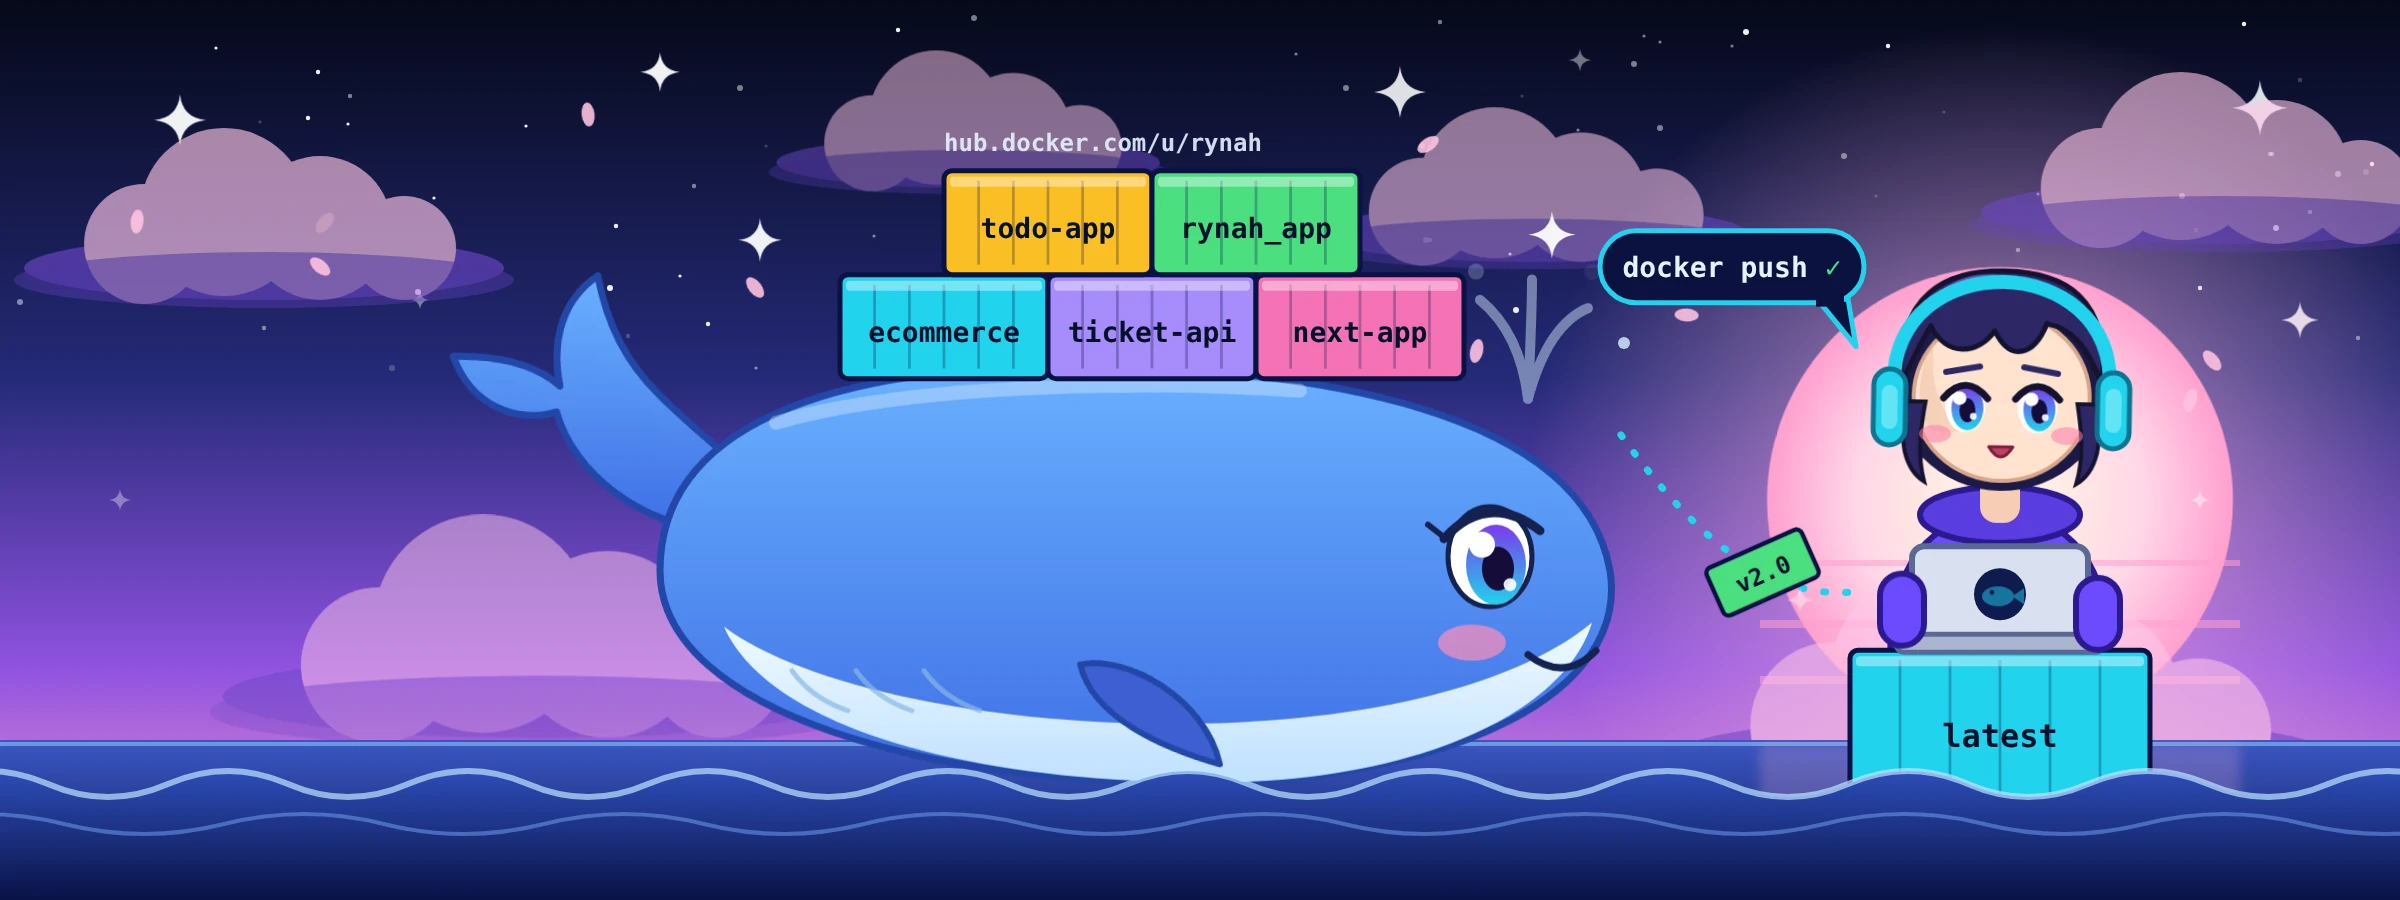
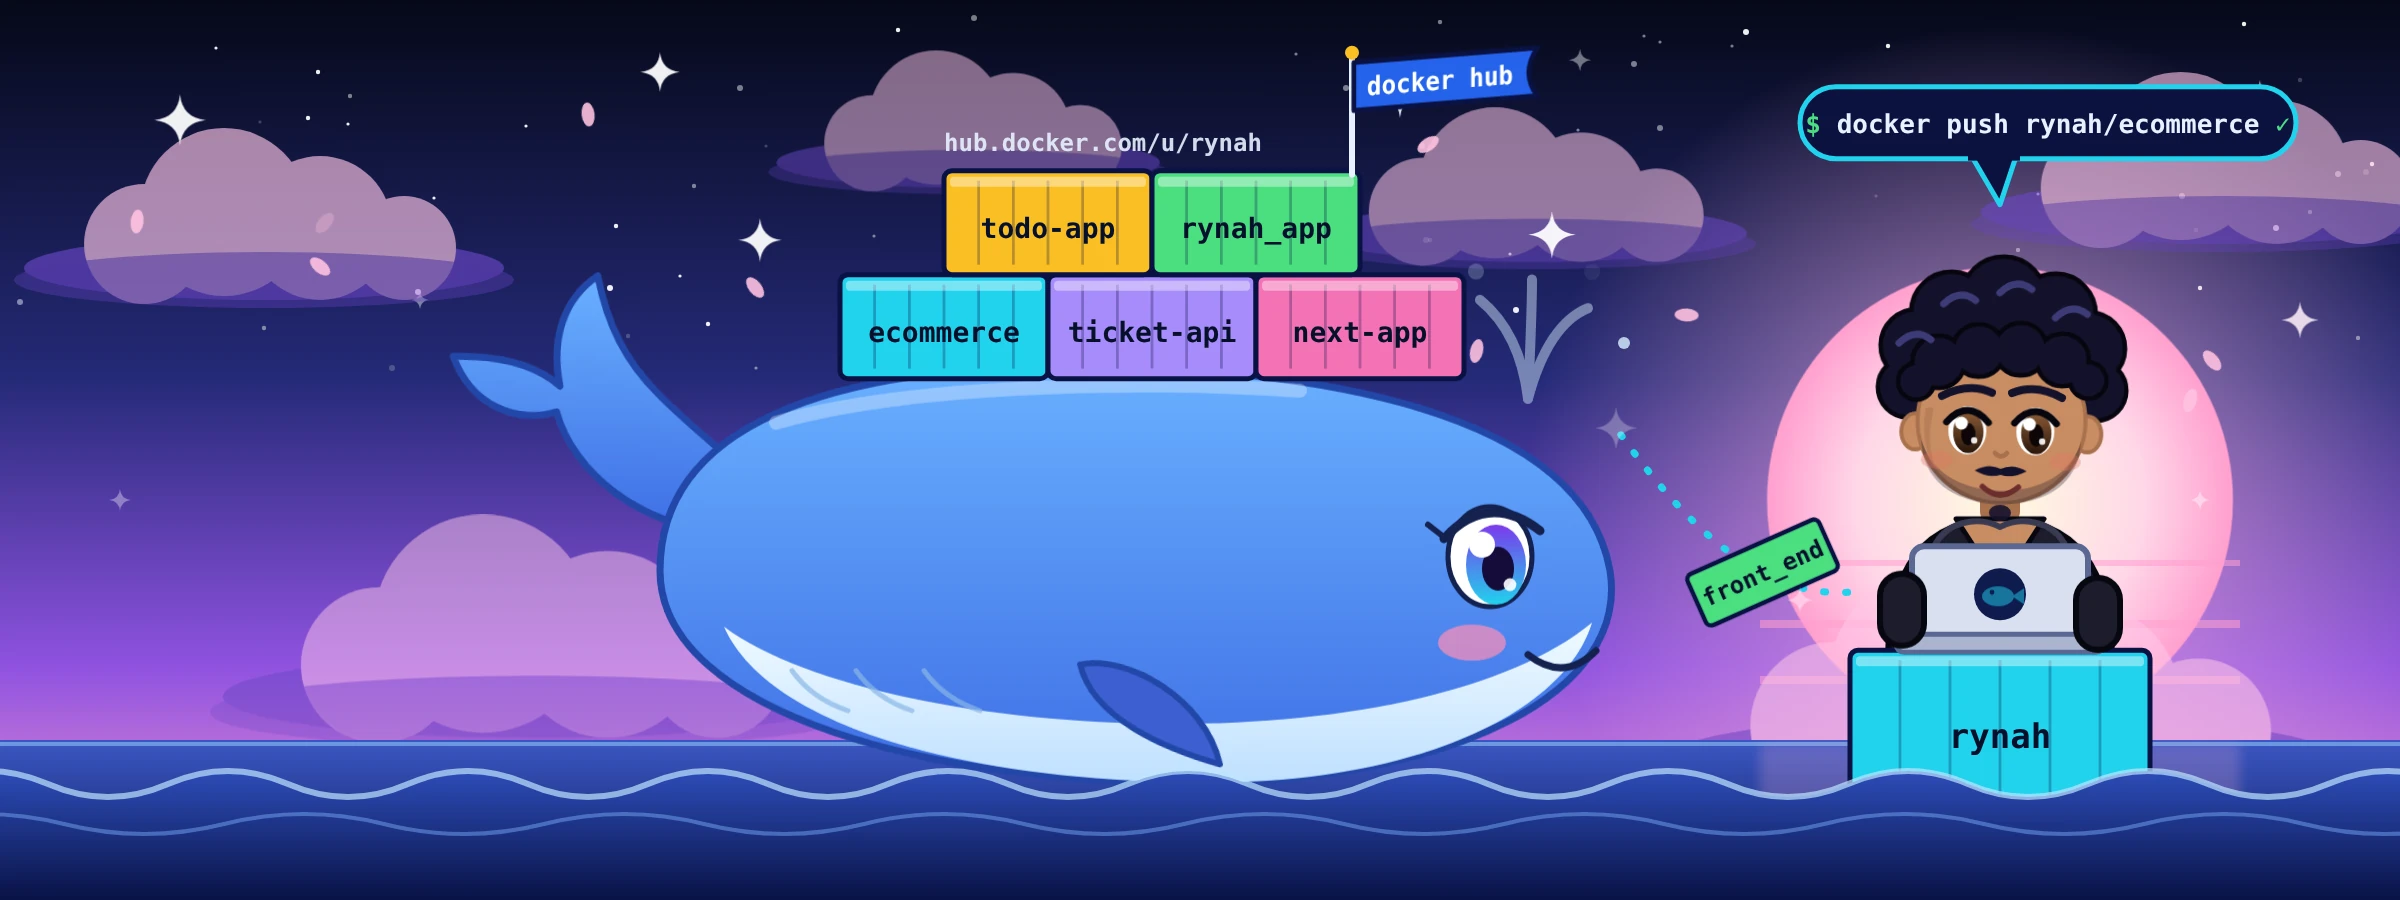
Redraw the illustration as Rynah pushing images to Docker Hub
The character now follows the portrait (curly hair, moustache and goatee,
black V-neck sweater) and types docker push rynah/ecommerce. The whale is
labelled with a docker hub flag, and the front_end and back_end images
fly from the laptop to it in turn.

Claude-Session: https://claude.ai/code/session_015Cm5Fy6Lt5zcH3DsVDubg1

diff --git a/scripts/make-illustration.py b/scripts/make-illustration.py
@@ -90,6 +90,8 @@ CSS = f"""
 @keyframes arrive{{0%,70%{{opacity:0;transform:scale(0)}}73%{{opacity:1;transform:scale(1.5)}}86%{{opacity:0;transform:scale(.4)}}100%{{opacity:0;transform:scale(0)}}}}
 .petal{{transform-box:fill-box;transform-origin:center;animation:petal 4s linear infinite}}
 @keyframes petal{{0%{{transform:translate(0,0) rotate(0);opacity:0}}15%{{opacity:.9}}85%{{opacity:.9}}100%{{transform:translate(-34px,230px) rotate(260deg);opacity:0}}}}
+.flag{{transform-origin:676px 48px;animation:flag 2s ease-in-out infinite}}
+@keyframes flag{{0%,100%{{transform:skewY(0) scaleX(1)}}50%{{transform:skewY(-5deg) scaleX(.93)}}}}
 .shoot{{animation:shoot 4s linear infinite}}
 @keyframes shoot{{0%{{transform:translate(0,0);opacity:0}}3%{{opacity:1}}18%{{transform:translate(-150px,52px);opacity:0}}100%{{transform:translate(-150px,52px);opacity:0}}}}
 """
@@ -103,6 +105,7 @@ add('''<defs>
 <linearGradient id="whale" x1="0" y1="0" x2="0" y2="1"><stop offset="0" stop-color="#69b0ff"/><stop offset="1" stop-color="#3f6fe6"/></linearGradient>
 <linearGradient id="belly" x1="0" y1="0" x2="0" y2="1"><stop offset="0" stop-color="#f0faff"/><stop offset="1" stop-color="#bfe0ff"/></linearGradient>
 <linearGradient id="iris" x1="0" y1="0" x2="0" y2="1"><stop offset="0" stop-color="#7c3aed"/><stop offset="1" stop-color="#22d3ee"/></linearGradient>
+<linearGradient id="iris2" x1="0" y1="0" x2="0" y2="1"><stop offset="0" stop-color="#8a5a34"/><stop offset="1" stop-color="#2a160c"/></linearGradient>
 <linearGradient id="sea" x1="0" y1="0" x2="0" y2="1"><stop offset="0" stop-color="#3b57c4"/><stop offset="1" stop-color="#0b1550"/></linearGradient>
 <linearGradient id="seaFront" x1="0" y1="0" x2="0" y2="1"><stop offset="0" stop-color="#2d4cb8"/><stop offset="1" stop-color="#091245"/></linearGradient>
 <linearGradient id="trail" gradientUnits="userSpaceOnUse" x1="0" y1="0" x2="70" y2="0"><stop offset="0" stop-color="#fff"/><stop offset="1" stop-color="#fff" stop-opacity="0"/></linearGradient>
@@ -193,48 +196,64 @@ def crate(x, y, w, h, color, label, fs=14):
 for (label, color), (x, y) in zip(CRATES, POS):
     crate(x, y, 104, 52, color, label)
 add('<text x="472" y="80" font-size="12" font-weight="700" fill="#e8f1ff" opacity=".9">hub.docker.com/u/rynah</text>')
+add('<line x1="676" y1="92" x2="676" y2="32" stroke="#e8f1ff" stroke-width="3" stroke-linecap="round"/><circle cx="676" cy="31" r="3.5" fill="#fbbf24"/>')
+add('<g class="flag"><path d="M677 36 H775 Q766 48 775 60 H677 Z" fill="#2563eb" stroke="#0a1244" stroke-width="2.5" stroke-linejoin="round"/>')
+add('<text x="723" y="53" text-anchor="middle" font-size="13" font-weight="800" fill="#fff">docker hub</text></g>')
 add('</g>')  # fin .bob baleine
 
-# --- personnage chibi : posé sur un conteneur qui flotte aussi (décalé d'une seconde)
+# --- personnage chibi : Rynah (cheveux bouclés, moustache et bouc, pull noir à col en V)
+SK, SK2, HAIR, HAIR2, KNIT = "#c98d63", "#a8714d", "#14122b", "#3d3b78", "#1c1c2b"
 add('<g class="bob" style="animation-delay:-1s">')
 add('<g class="breathe">')
-add('<path d="M945 336 C945 286 965 262 1000 262 C1035 262 1055 286 1055 336 Z" fill="#6d4aff" stroke="#2c1a8f" stroke-width="3"/>')
-add('<ellipse cx="1000" cy="262" rx="40" ry="14" fill="#5a3de0" stroke="#2c1a8f" stroke-width="3"/>')
-add('<rect x="990" y="240" width="20" height="26" rx="8" fill="#f7cdb4"/>')
-add('<path d="M984 280 v22 M1016 280 v22" stroke="#e9e3ff" stroke-width="3" stroke-linecap="round"/>')
+add(f'<path d="M944 336 C944 286 964 264 1000 264 C1036 264 1056 286 1056 336 Z" fill="{KNIT}" stroke="#07070f" stroke-width="3"/>')
+add(f'<rect x="990" y="238" width="20" height="30" rx="8" fill="{SK2}"/>')
+add(f'<path d="M978 264 L1000 298 L1022 264 Z" fill="{SK}" stroke="#07070f" stroke-width="2.5" stroke-linejoin="round"/>')
+add('<path d="M968 276 C974 266 988 262 1000 268 C1012 262 1026 266 1032 276" stroke="#3a3a52" stroke-width="3" fill="none" stroke-linecap="round"/>')
 add('</g>')
-crate(925, 332, 150, 80, "#22d3ee", "latest", 16)
+crate(925, 332, 150, 80, "#22d3ee", "rynah", 17)
 # ordinateur
 add('<rect x="956" y="280" width="88" height="48" rx="6" fill="#d9dff0" stroke="#5b6894" stroke-width="3"/>')
 add('<rect x="948" y="324" width="104" height="9" rx="4" fill="#aab4cf" stroke="#5b6894" stroke-width="2.5"/>')
 add('<g transform="translate(1000 304)"><circle r="13" fill="#0f1b4d"/><g class="glow"><ellipse cx="-1" cy="1" rx="8" ry="5" fill="#22d3ee"/><path d="M6 1 l6 -4 v8z" fill="#22d3ee"/></g><circle cx="-4" cy="-1" r="1.2" fill="#0f1b4d"/></g>')
 for sx, d in ((940, 0), (1038, -.25)):
-    add(f'<g class="type" style="animation-delay:{d}s"><rect x="{sx}" y="296" width="22" height="36" rx="11" fill="#6d4aff" stroke="#2c1a8f" stroke-width="3"/></g>')
-# tête (elle se balance légèrement)
-add('<g class="breathe"><g class="tilt">')
-add('<ellipse cx="1000" cy="196" rx="55" ry="54" fill="#1d1a46"/>')
-add('<ellipse cx="1000" cy="203" rx="44" ry="42" fill="#ffe3d0" stroke="#d9a58a" stroke-width="2"/>')
-add('<path d="M960 214 q-4 -22 6 -38 q-4 28 14 44 q-16 4 -20 -6Z" fill="#f2c4aa" opacity=".6"/>')
-add('<path d="M950 196 C946 152 972 140 1000 140 C1030 140 1054 152 1050 196 C1042 176 1034 168 1022 166 C1016 182 1004 186 996 170 C988 182 972 184 964 168 C958 178 954 188 950 196 Z" fill="#2c2766" stroke="#14122e" stroke-width="2.5" stroke-linejoin="round"/>')
-add('<path d="M972 150 q12 -8 26 -6 M1004 146 q16 0 28 8" stroke="#5d56b8" stroke-width="3.5" stroke-linecap="round" fill="none"/>')
-add('<path d="M953 206 C948 224 952 240 962 246 C958 232 960 218 962 206 Z M1047 206 C1052 224 1048 240 1038 246 C1042 232 1040 218 1038 206 Z" fill="#2c2766" stroke="#14122e" stroke-width="2"/>')
-for ex in (982, 1018):
-    add(f'<g transform="translate({ex} 208)"><g class="blink" style="animation-delay:-1.6s"><ellipse rx="10" ry="13" fill="#fff"/><ellipse cx="1" cy="1" rx="8" ry="11" fill="url(#iris)"/><ellipse cx="1" cy="2" rx="4" ry="6" fill="#150c3a"/><circle cx="-3" cy="-4" r="3.4" fill="#fff"/><circle cx="4" cy="5" r="1.7" fill="#fff" opacity=".9"/></g><path d="M-11 -4 Q0 -17 11 -4" stroke="#14122e" stroke-width="3.5" fill="none" stroke-linecap="round"/></g>')
-add('<path d="M972 191 L989 188 M1011 188 L1028 191" stroke="#2c2766" stroke-width="3" stroke-linecap="round"/>')
-add('<path d="M994 228 Q1000 238 1006 228 Z" fill="#c0405f" stroke="#7a1f3a" stroke-width="1.6" stroke-linejoin="round"/>')
-add('<ellipse cx="967" cy="222" rx="8" ry="4.5" fill="#ff7aa8" opacity=".55"/><ellipse cx="1033" cy="222" rx="8" ry="4.5" fill="#ff7aa8" opacity=".55"/>')
-add('<path d="M946 198 C944 128 1056 128 1054 198" stroke="#22d3ee" stroke-width="7" fill="none" stroke-linecap="round"/>')
-for hx in (936, 1048):
-    add(f'<rect x="{hx}" y="190" width="16" height="38" rx="8" fill="#22d3ee" stroke="#0e7490" stroke-width="2.5"/><rect class="glow" x="{hx + 4}" y="198" width="8" height="22" rx="4" fill="#a5f3fc" opacity=".7"/>')
-add('</g></g>')
+    add(f'<g class="type" style="animation-delay:{d}s"><rect x="{sx}" y="296" width="22" height="36" rx="11" fill="{KNIT}" stroke="#07070f" stroke-width="3"/></g>')
+# tête
+add('<g transform="translate(0 9)"><g class="breathe"><g class="tilt">')
+BACK = [(953, 190, 15), (957, 169, 18), (974, 152, 20), (1000, 145, 21), (1026, 152, 20), (1043, 169, 18), (1047, 190, 15), (987, 160, 16), (1013, 160, 16)]
+FRONT = [(968, 177, 13), (988, 171, 13), (1009, 170, 13), (1030, 175, 13), (1043, 185, 9), (957, 187, 9)]
+for x, y, r in BACK:
+    add(f'<circle cx="{x}" cy="{y}" r="{r}" fill="{HAIR}" stroke="#07060f" stroke-width="2.5"/>')
+for x, y, r in BACK:
+    add(f'<circle cx="{x}" cy="{y}" r="{r - 1}" fill="{HAIR}"/>')
+add(f'<ellipse cx="957" cy="212" rx="7" ry="9" fill="{SK}" stroke="{SK2}" stroke-width="2"/><ellipse cx="1043" cy="212" rx="7" ry="9" fill="{SK}" stroke="{SK2}" stroke-width="2"/>')
+add(f'<ellipse cx="1000" cy="206" rx="42" ry="41" fill="{SK}" stroke="{SK2}" stroke-width="2"/>')
+add(f'<path d="M960 216 Q962 246 1000 248 Q1038 246 1040 216 Q1032 240 1000 241 Q968 240 960 216Z" fill="{HAIR}" opacity=".3"/>')
+add(f'<path d="M962 200 q-3 18 6 32 q-6 -14 -2 -32Z" fill="{SK2}" opacity=".5"/>')
+for x, y, r in FRONT:
+    add(f'<circle cx="{x}" cy="{y}" r="{r}" fill="{HAIR}" stroke="#07060f" stroke-width="2.5"/>')
+for x, y, r in FRONT:
+    add(f'<circle cx="{x}" cy="{y}" r="{r - 1}" fill="{HAIR}"/>')
+for x, y in [(978, 148), (1006, 142), (1034, 154), (956, 168)]:
+    add(f'<path d="M{x - 8} {y} q8 -8 16 -2" stroke="{HAIR2}" stroke-width="3.5" fill="none" stroke-linecap="round"/>')
+for ex in (983, 1017):
+    add(f'<g transform="translate({ex} 211)"><g class="blink" style="animation-delay:-1.6s"><ellipse rx="9.5" ry="12" fill="#fff"/><ellipse cx="0.5" cy="1" rx="7.6" ry="10.4" fill="url(#iris2)"/><ellipse cx="0.5" cy="2" rx="3.6" ry="5.6" fill="#0d0608"/><circle cx="-3" cy="-3.5" r="3.2" fill="#fff"/><circle cx="3.5" cy="5" r="1.6" fill="#fff" opacity=".9"/></g><path d="M-10.5 -4 Q0 -16 10.5 -4" stroke="#07060f" stroke-width="3.4" fill="none" stroke-linecap="round"/></g>')
+add(f'<path d="M970 194 Q983 187 995 192 M1005 192 Q1017 187 1030 194" stroke="{HAIR}" stroke-width="4" stroke-linecap="round" fill="none"/>')
+add(f'<path d="M997 222 q3 3.5 6 0" stroke="{SK2}" stroke-width="2.4" fill="none" stroke-linecap="round"/>')
+add(f'<ellipse cx="968" cy="226" rx="8" ry="4.5" fill="#e0735f" opacity=".35"/><ellipse cx="1032" cy="226" rx="8" ry="4.5" fill="#e0735f" opacity=".35"/>')
+add(f'<path d="M987 231 Q994 227 1000 230 Q1006 227 1013 231 Q1006 235 1000 233 Q994 235 987 231Z" fill="{HAIR}"/>')
+add('<path d="M991 239 Q1000 247 1009 239" stroke="#6b2d2d" stroke-width="2.8" fill="none" stroke-linecap="round"/>')
+add(f'<ellipse cx="1000" cy="252" rx="5.5" ry="4" fill="{HAIR}" opacity=".9"/>')
+add('</g></g></g>')
 add('</g>')  # fin .bob personnage
 
-# bulle + push
-add('<g class="float"><rect x="800" y="118" width="132" height="36" rx="18" fill="#0b1240" stroke="#22d3ee" stroke-width="2.5"/><path d="M910 154 l18 22 l-4 -24z" fill="#0b1240" stroke="#22d3ee" stroke-width="2.5" stroke-linejoin="round"/><rect x="908" y="150" width="14" height="6" fill="#0b1240"/>')
-add('<text x="866" y="141" text-anchor="middle" font-size="14" font-weight="800" fill="#e8f1ff">docker push <tspan fill="#4ade80">✓</tspan></text></g>')
+# bulle : la commande que tape Rynah
+add('<g class="float"><rect x="900" y="46" width="248" height="36" rx="18" fill="#0b1240" stroke="#22d3ee" stroke-width="2.5"/><path d="M986 81 l14 24 l8 -24z" fill="#0b1240" stroke="#22d3ee" stroke-width="2.5" stroke-linejoin="round"/><rect x="984" y="77" width="26" height="6" fill="#0b1240"/>')
+add('<text x="1024" y="69" text-anchor="middle" font-size="13" font-weight="800" fill="#e8f1ff"><tspan fill="#4ade80">$</tspan> docker push rynah/ecommerce <tspan fill="#4ade80">✓</tspan></text></g>')
 add('<path class="march" d="M926 296 C880 300 842 262 808 214" stroke="#22d3ee" stroke-width="3.5" stroke-linecap="round" stroke-dasharray="1 10" fill="none"/>')
-add('<g class="fly"><g transform="rotate(-24)"><rect x="-26" y="-13" width="52" height="26" rx="3" fill="#4ade80" stroke="#0a1244" stroke-width="2.2"/><text y="5" text-anchor="middle" font-size="12" font-weight="800" fill="#07102b">v2.0</text></g></g>')
-add('<g transform="translate(808 214) scale(1.7)"><path class="arrive" d="M0 -9 Q0.8 -0.8 9 0 Q0.8 0.8 0 9 Q-0.8 0.8 -9 0 Q-0.8 -0.8 0 -9Z" fill="#fff"/></g>')
+# deux images poussées en alternance vers Docker Hub (les vraies : frontend et backend de l'e-commerce)
+for label, d in (("front_end", 0), ("back_end", -2)):
+    add(f'<g class="fly" style="animation-delay:{d}s"><g transform="rotate(-24)"><rect x="-36" y="-14" width="72" height="28" rx="3" fill="#4ade80" stroke="#0a1244" stroke-width="2.2"/><text y="4.5" text-anchor="middle" font-size="12" font-weight="800" fill="#07102b">{label}</text></g></g>')
+    add(f'<g transform="translate(808 214) scale(1.7)"><path class="arrive" style="animation-delay:{d}s" d="M0 -9 Q0.8 -0.8 9 0 Q0.8 0.8 0 9 Q-0.8 0.8 -9 0 Q-0.8 -0.8 0 -9Z" fill="#fff"/></g>')
 
 # eau avant : les vagues défilent (120 et 160 px par boucle = motif entier)
 n1 = "q30 -13 60 0 t60 0 " * 11
